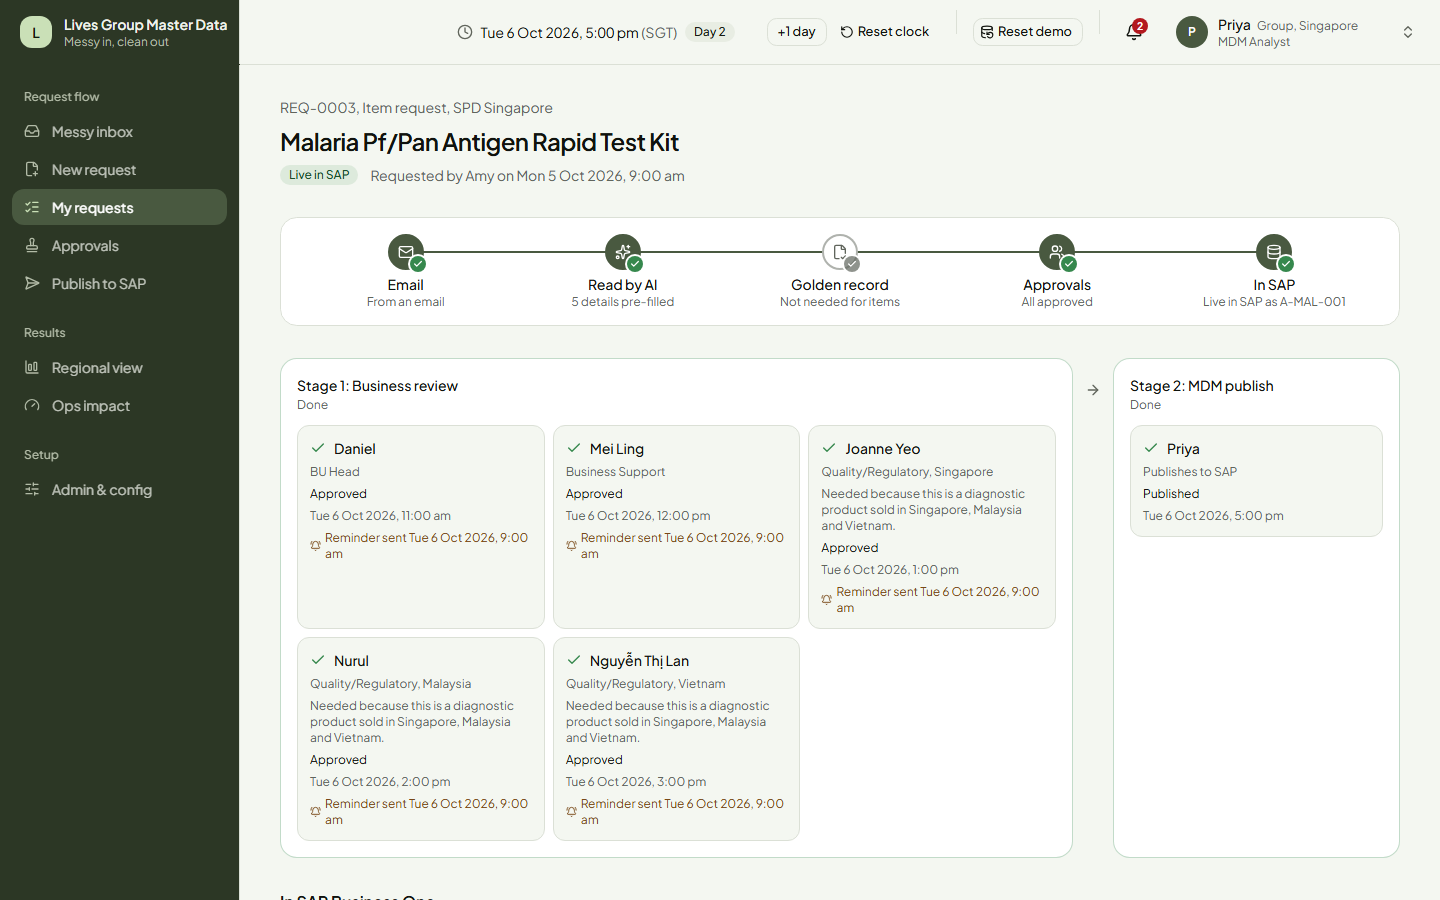
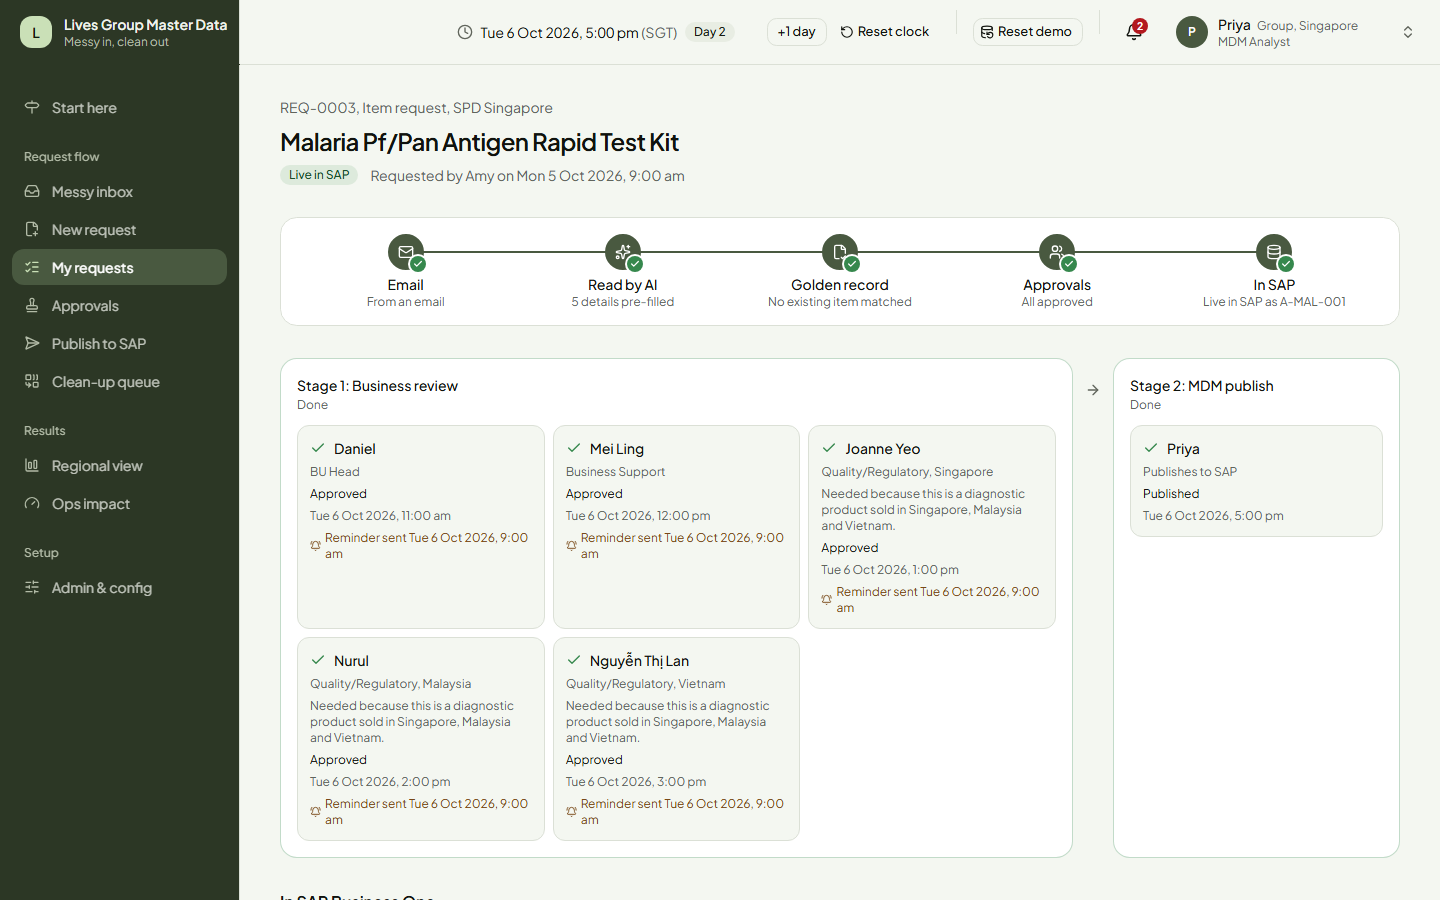
docs: session 13 progress lines; README screens 03 (item beam) and 07 re-taken

diff --git a/docs/progress.md b/docs/progress.md
@@ -83,6 +83,7 @@ One line per finished task: `YYYY-MM-DD HH:MM | agent | what changed | status`.
 2026-10-26 | data-scientist (session 13, Track A, branch s13-pipeline) | Product B pipeline forecast: method + constants fixed before the first run (b4b7e1e: LMAX 2, 12-month conversion ratio of totals, 6-month request fill, zero floor, region = sum of countries, never reads converted_doc_num); same M9 origins/metrics, M9 numbers read from stored frames. Region B, demo: Excel 6 28.4% / Excel 12 26.1% / ours 36.1% / requests 26.5% / requests+enquiries 29.2% (tie with Excel 12; loses in flat_noisy and intermittent); Excel fallback used 0 of 150. Next 3 months plan (Oct-Dec 2026, 15 rows x 3 scenarios, VN growth adjustment separate) in derived/forecast/pipeline/; ForecastBacktest.pipeline_note / pipeline_region / plan_next_3m; forecast panel line + table; notebooks/eval_pipeline.py in make eval (results.md: additions only); tests/test_forecast_pipeline.py (12) + e2e forecast-plan.spec.ts (not run here) | done
 2026-10-26 | frontend-engineer (session 13, Track D, branch s13-tz-teams) | Time zones: due times show the approver's local time next to SGT where it differs ('9:00 am SGT, 8:00 am in Vietnam'; ID = 'Jakarta time'), fixed offsets in config/timezones.yaml, no tzdata; ApprovalTask.due_local + notification text from one helper (clock.format_due); SLA unchanged. 'See it in Teams' on approval notifications: GET /notifications/{id}/teams-card (Adaptive Card 1.5, Approve/Ask for info/Reject/Open, no bank data), plain-element preview, Download card JSON, buttons do nothing. Publish notification says what's next ('... is live in SAP as A-MAL-001, so you can raise sales orders now.'). Rules editor refuses an approver who, or whose backup, also raises requests (422). tests/test_session13.py (23) + e2e teams-card.spec.ts (not run here: orchestrator runs e2e) | done
 2026-10-26 | data-scientist (session 13, Track C, branch s13-itemdup) | Item duplicate check, rules only: normalised name (pack size/units/punctuation/order stripped, generic words down-weighted), manufacturer catalogue no. (new optional app-only form field; synthetic numbers in config/item_catalogue.yaml), registration no. per country; Likely >= 0.85 / Possible >= 0.60 fixed (a0d13f1) before the hand-made 50-pair set; POST /dedup/check-item, item dedup decisions reuse /dedup-decision (ItemCode in card_code), submit 409 on Likely without a decision; item form duplicate panel; beam golden node 'No existing item matched'; results.md new item section only (Likely P 100% R 93.9%; additions only, make eval byte-stable); DEMO-02 malaria kit = no match (pytest). pytest 613, test-web clean; e2e item-dup.spec.ts + pipeline-beam.spec.ts update NOT run (orchestrator runs e2e) | done
+2026-10-26 | orchestrator (session 13) | Gaps vs the brief closed, D-027: 4 tracks merged one at a time after QA (all PASS WITH NOTES, notes fixed): B Cost Center + required-field switches (d5d50c3), A Product B pipeline forecast (0e397ba; constants fixed in b4b7e1e before the first run; ties Excel 12-month in the demo market 26.5% vs 26.1%, loses elsewhere), D local due times + Teams card preview + 'live in SAP, so you can raise sales orders now' + rules-editor requestor guard (978ba6c; Teams spec fixed to act as Lan from her task card), C item duplicate check (50-pair hand-made set, Likely 31/31 precision, 31/33 recall). Each gate: make test, make e2e, make rehearse green; final main: make test 684, make e2e 90/90. Docs: README brief-to-build rows + not-built table, PRD 5.3, judge walkthrough step 7, finals beats E-H, lapsed-licence beat note. Merged worktrees cleaned at start. A ~4 h usage pause pushed the merge gates past the 17:00 feature stop; no new features after it, fixes only. data/app.db needs a reseed (Reset demo) | done
 
 ## Next session
 
@@ -92,3 +93,4 @@ One line per finished task: `YYYY-MM-DD HH:MM | agent | what changed | status`.
 4. Port 8000 may be held by Ihsan's CS464 Auth Service: don't run `make stop`/`make dev` while it is up; `make e2e`/`make rehearse` use 8100/8101/3100.
 5. Done in session 12: all five final-day items (A-E) merged before freeze; after pulling, restart `make dev` and press Reset demo before recording.
 6. Mon 26: feature freeze 23:59. Tue 27: video (2-3 min, five beats), 2-page summary (cost/effort for no dedicated IT team, adoption plan), slides; use docs/img/architecture.png and sap-sequence.png. Wed 28: secret scan, flip repo public (D-016), submit by 10:00.
+7. Session 13 (D-027): after pulling, reseed once (Reset demo or `make reset-demo`: new `required_field_overrides` table, `requests.required_snapshot` column), restart `make dev`, press Reset demo before recording. Rehearsing DEMO-02 twice without a reset makes the second malaria kit a Likely duplicate of the first (correct, but reset first).
